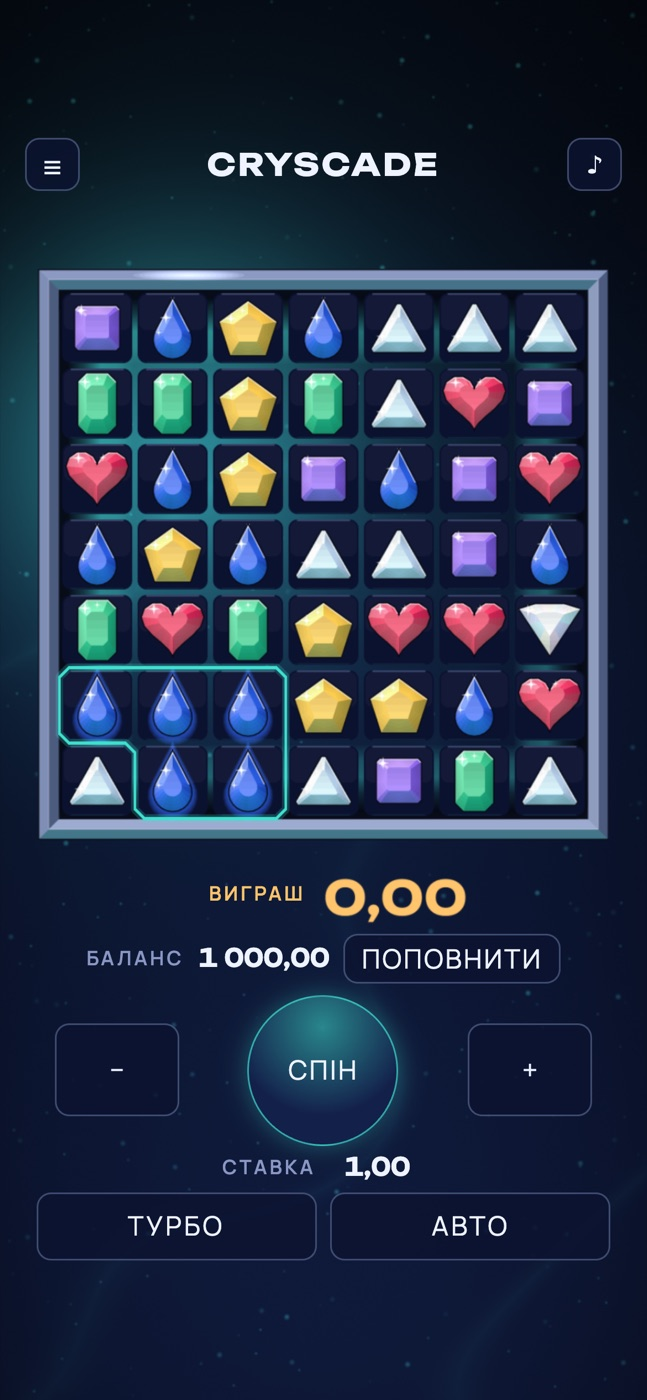
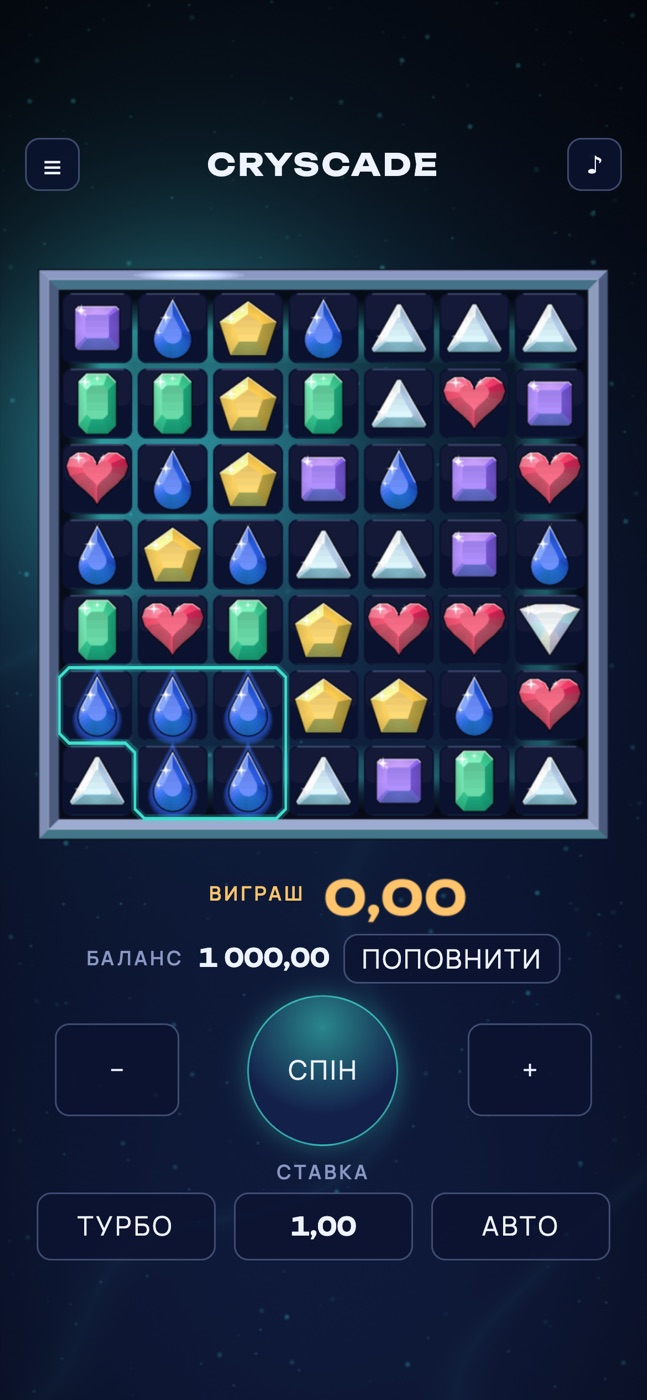
refactor(ui): drop dead panel button font rules, retake README screenshots

Changed region(s): [[0.1236, 0.8293, 0.6491, 0.8907], [0.6491, 0.86, 0.8655, 0.8907]]

diff --git a/src/ui/styles.css b/src/ui/styles.css
@@ -157,6 +157,8 @@ button:disabled::before {
   gap: calc(var(--u) * 16);
 }
 
+/* Кнопки зон — шрифтом страницы, 16 px Manrope: на телефоне читается, и области 44 × 44 выверены на нём (прогон №7).
+   Свой шрифт — только у ставки и кнопок popover: их правила .panel .… сильнее этого font: inherit. */
 .panel button {
   pointer-events: auto;
   font: inherit;
@@ -191,7 +193,6 @@ button:disabled::before {
 .icon {
   width: calc(var(--u) * 60);
   height: calc(var(--u) * 60);
-  font-size: calc(var(--u) * 28);
 }
 
 /* Звук выключен (§12): ♪ приглушён и перечёркнут — состояние видно глазами, а не только диктору. */
@@ -252,17 +253,12 @@ button:disabled::before {
 .step {
   width: 100%;
   height: 100%;
-  font-size: calc(var(--u) * 44);
-  font-weight: 700;
 }
 
 .spin {
   height: 100%;
   aspect-ratio: 1;
   border-radius: 50% !important;
-  font-family: 'Unbounded Variable', system-ui, sans-serif;
-  font-size: calc(var(--u) * 30);
-  font-weight: 700;
   letter-spacing: 0.08em;
   text-transform: uppercase;
   /* Свет сверху, надпись — в тёмной части: самый светлый фон под «Спін» — 6.3:1 к тексту (AA, e2e shell.spec). */
@@ -279,8 +275,6 @@ button:disabled::before {
 .toggle {
   flex: 1;
   height: 100%;
-  font-size: calc(var(--u) * 22);
-  font-weight: 600;
   letter-spacing: 0.1em;
   text-transform: uppercase;
 }
@@ -310,8 +304,6 @@ button:disabled::before {
 /* «Поповнити» — рядом с балансом: баланс не упирается в ноль навсегда (§4.6). */
 .refill {
   padding: calc(var(--u) * 6) calc(var(--u) * 18);
-  font-size: calc(var(--u) * 18);
-  font-weight: 600;
   letter-spacing: 0.08em;
   text-transform: uppercase;
 }
